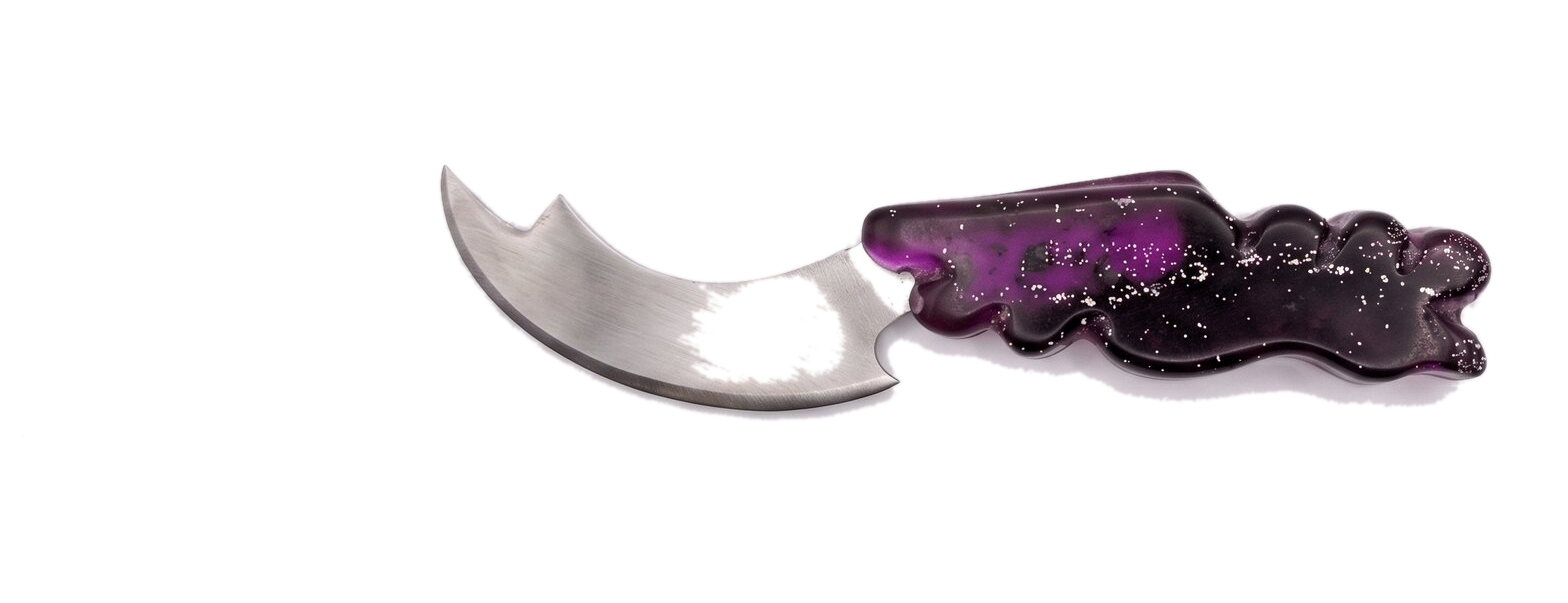
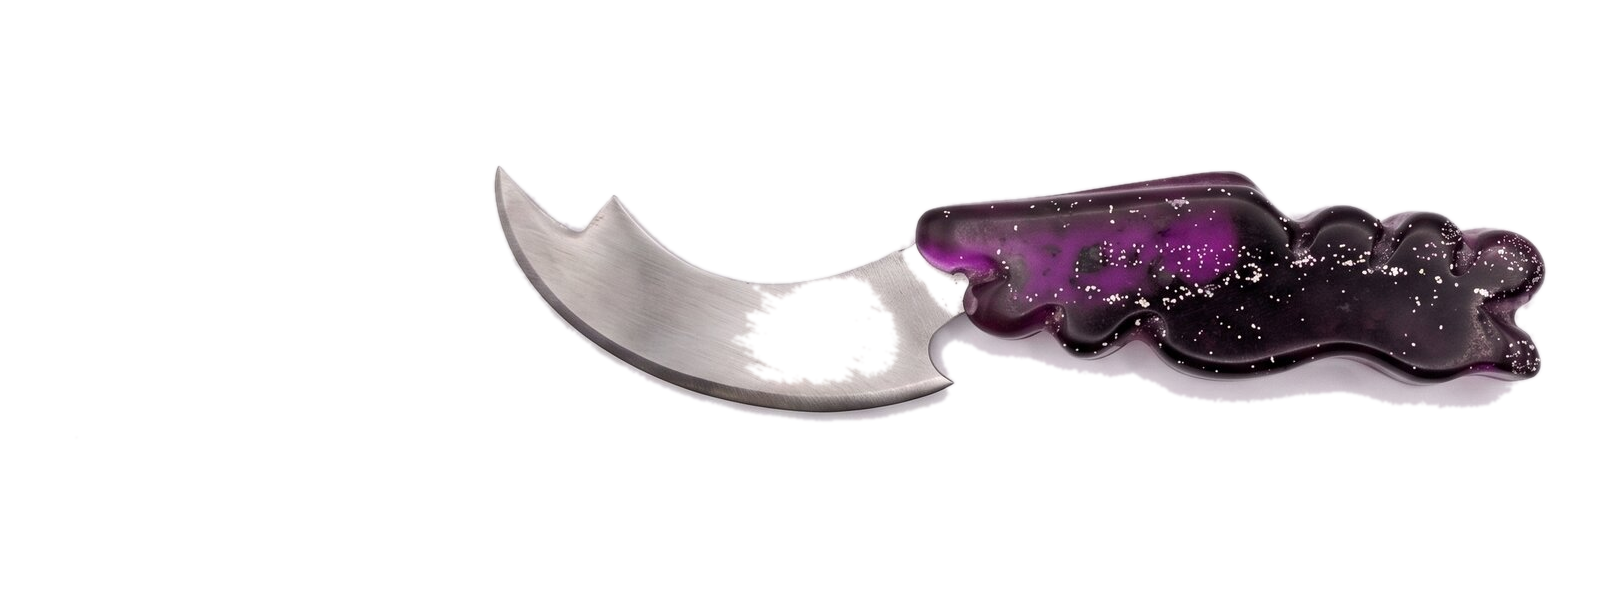
Add files via upload

Changed region(s): [[0.2812, 0.2687, 0.9688, 0.7164]]

diff --git a/assets/styles.css b/assets/styles.css
@@ -244,6 +244,10 @@ nav.primary-nav a:focus-visible{
   justify-content:center;
   min-height:280px;
 }
+.row-image-link{
+  display:contents;
+  cursor:pointer;
+}
 .project-row .row-image img{
   width:auto;
   height:auto;
@@ -251,6 +255,13 @@ nav.primary-nav a:focus-visible{
   max-height:360px;
   display:block;
   margin:0 auto;
+  cursor:pointer;
+}
+.row-image-knibex img{
+  transform:translateX(-16%);
+}
+.row-image-buoy img{
+  transform:translateX(-16%);
 }
 .project-row .title-link{
   display:inline-block;
@@ -287,6 +298,12 @@ nav.primary-nav a:focus-visible{
   .project-row{grid-template-columns:1fr;gap:24px;}
   .project-row .row-image{order:-1;}
   .project-row h3{font-size:clamp(2.2rem,9vw,3rem);}
+  .project-row .row-text{
+    text-align:center;
+  }
+  .project-row .row-meta{
+    justify-content:center;
+  }
 }
 
 /* ---------- about ---------- */
@@ -634,6 +651,8 @@ body.intro-lock{overflow:hidden;height:100vh;}
 }
 .top-banner-slides img{
   position:absolute;
+  inset:0;
+  margin:auto;
   width:65%;
   height:65%;
   object-fit:contain;
@@ -641,6 +660,8 @@ body.intro-lock{overflow:hidden;height:100vh;}
   animation:coverFade 21s infinite;
 }
 .top-banner-slides img:nth-child(1){animation-delay:0s;}
+.top-banner-slides img:nth-child(3){transform:translateX(-8%);}
+.top-banner-slides img:nth-child(5){transform:translateX(-8%);}
 .top-banner-slides img:nth-child(2){animation-delay:3s;}
 .top-banner-slides img:nth-child(3){animation-delay:6s;}
 .top-banner-slides img:nth-child(4){animation-delay:9s;}

diff --git a/assets/lightbox.js b/assets/lightbox.js
@@ -1,5 +1,5 @@
 document.addEventListener("DOMContentLoaded", function () {
-  var selector = ".project-photos img, .row-image img, .sketches-group img";
+  var selector = ".project-photos img, .sketches-group img";
   var images = document.querySelectorAll(selector);
   if (!images.length) return;
 
